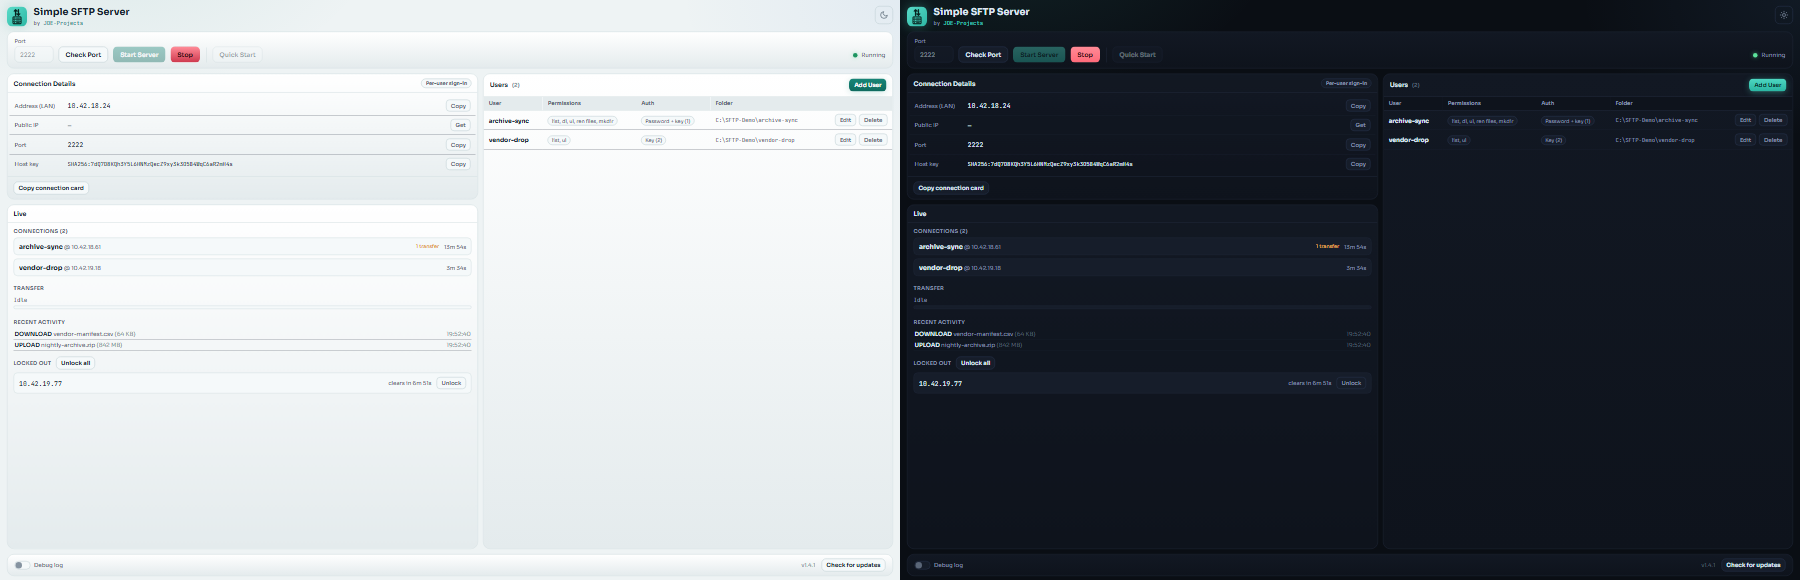
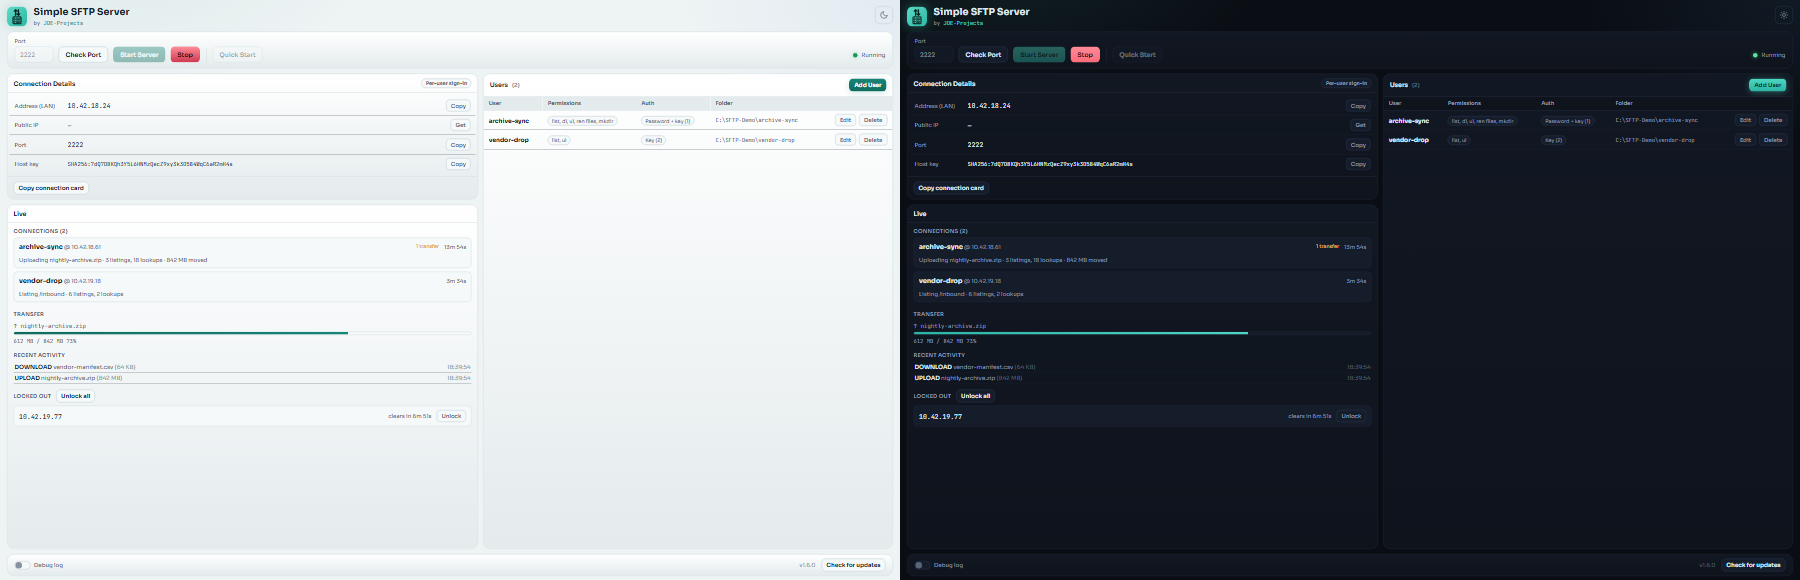
Regenerate preview with live activity fixture

diff --git a/tools/screenshot/scene.py b/tools/screenshot/scene.py
@@ -30,8 +30,12 @@ STATUS = {
     "lan": "10.42.18.24",
     "fingerprint": "SHA256:7dQ7D8KQh3Y5L6HNMzQecZ9xy3k3O5B4WqC6aR2mH4s",
     "connections": [
-        {"user": "archive-sync", "ip": "10.42.18.61", "active": 1, "since": 834},
-        {"user": "vendor-drop", "ip": "10.42.19.18", "active": 0, "since": 214},
+        {"user": "archive-sync", "ip": "10.42.18.61", "active": 1, "since": 834,
+         "op": "Uploading", "path": "nightly-archive.zip",
+         "lists": 3, "stats": 18, "bytes": 883065651, "human": "842 MB"},
+        {"user": "vendor-drop", "ip": "10.42.19.18", "active": 0, "since": 214,
+         "op": "Listing", "path": "/inbound",
+         "lists": 6, "stats": 2, "bytes": 0, "human": ""},
     ],
     "locked": [{"ip": "10.42.19.77", "remaining": 412}],
     "quick_folder": "",

diff --git a/tools/screenshot/make_screenshot.py b/tools/screenshot/make_screenshot.py
@@ -69,6 +69,9 @@ def build_setup_script(version):
         "onActivity({verb:'UPLOAD',name:'nightly-archive.zip',human:'842 MB'});"
         "onActivity({verb:'DOWNLOAD',name:'vendor-manifest.csv',human:'64 KB'});"
         "}"
+        "if(typeof onTransfer==='function'){"
+        "onTransfer({active:true,dir:'upload',name:'nightly-archive.zip',human:'612 MB / 842 MB',pct:73});"
+        "}"
     )
 
 
